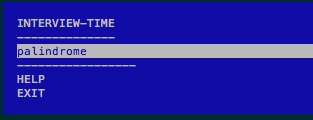
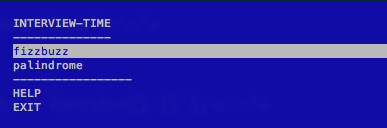
More info and fizzbuzz.

Changed region(s): [[0.0, 0.0, 1.0, 1.0]]

diff --git a/problems/fizzbuzz/index.js b/problems/fizzbuzz/index.js
@@ -1,33 +1,31 @@
 var cwd = require('process').cwd(),
 readFile = require('fs').readFileSync,
 isFunction = require('util').isFunction,
-assert = require('assert');
-
-var arrEql = function(a1,a2){
-  (a1.length == a2.length) && a1.every(function(element, index) {
-      return element === a2[index];
+isEqual = function(a1, a2) {
+  return (a1.length == a2.length) && a1.every(function(element, index) {
+    return element === a2[index];
   });
 };
+
 // Will use ES6 teamplate strings later on.
-exports.problem = 'Check if a give string is a plaindrome.\n\n' +
+exports.problem = 'Write a program that returns an array from 1..10 such that: \n\n'+
 
-'* Create a file `plaindrome.js`\n\n' +
+'Multiples of three are "Fizz" and multiples of five are "Buzz"\n\n'+
 
-'* Which takes a string as a command line argument.\n\n' +
+'* Create a file `fizzbuzz.js`\n\n' +
 
 '* Don\'t forget to export you function. module.exports = function() {}`);\n\n'+
 
-'Finally to verify do a `interview-time verify plaindrome.js "mam"`\n\n' +
-
-'P.S: process.argv[4] would be "mam" in this case.';
+'Finally to verify do a `interview-time verify `\n\n';
 
 exports.verify = function (args, cb) {
     var proposed = require(cwd+'/'+args[0]),
-    expected = [];
+    expected = [ 1, 2, 'Fizz', 4, 'Buzz', 'Fizz', 7, 8, 'Fizz', 'Buzz' ];
+
     if(!isFunction(proposed)) {
       console.log("Please make sure you have exported the function as suggested.");
     }
-    if (proposed) {
+    if (isEqual(expected,proposed())) {
         console.log('Good you have solved it!\n');
         cb(true);
     }

diff --git a/runner.js b/runner.js
@@ -3,7 +3,7 @@
 var adventure = require('adventure');
 var interview = adventure('interview-time');
 
-var problems = [ 'palindrome'];
+var problems = ['fizzbuzz','palindrome'];
 problems.forEach(function (prob) {
   interview.add(prob, function () {
     return require('./problems/' + prob);
